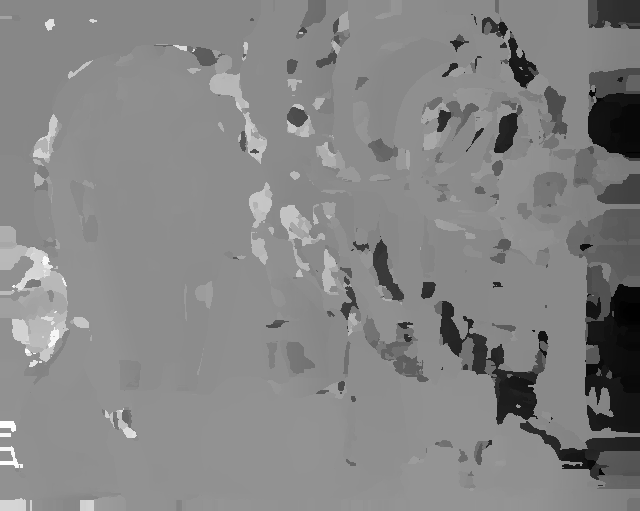
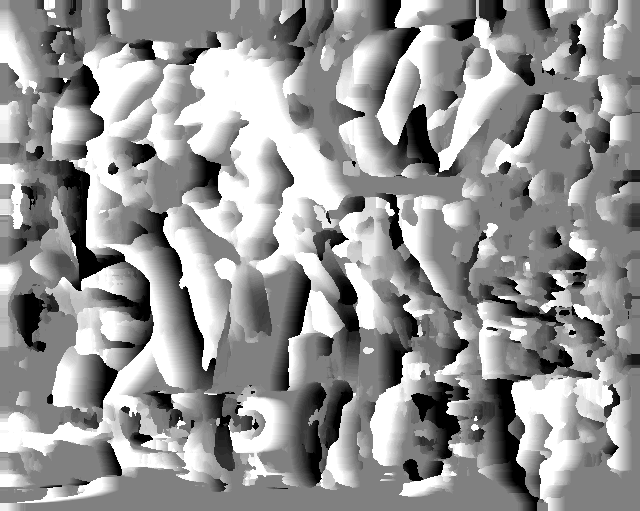
Add disparity range and cost function

diff --git a/ps2_python/disparity_ssd.py b/ps2_python/disparity_ssd.py
@@ -30,7 +30,7 @@ def sumsqdiff2(input_image, template, valid_mask=None):
     return ssd
 
 
-def disparity_ssd(L, R, template_size=3):
+def disparity_ssd(L, R, block_size=3, disparity_range=30, lambda_factor=0.1):
     """Compute disparity map D(y, x) such that: L(y, x) = R(y, x + D(y, x))
 
     Params:
@@ -40,22 +40,33 @@ def disparity_ssd(L, R, template_size=3):
     Returns: Disparity map, same size as L, R
     """
 
-    im_rows = L.shape[0]; im_cols = L.shape[1]
-    tpl_rows = tpl_cols = template_size
+    im_rows, im_cols = L.shape
+    tpl_rows = tpl_cols = block_size
     D_L = np.zeros(L.shape,
                      dtype=np.float32)
-    for r in range(tpl_rows/2, im_rows-tpl_rows/2):
-        for c in range(tpl_cols/2, im_cols-tpl_cols/2):
-            tpl = L[r-tpl_rows/2:r+tpl_rows/2+1, c-tpl_cols/2:c+tpl_cols/2+1].astype(np.float32)
-            R_strip = R[r-tpl_rows/2:r+tpl_rows/2+1, :].astype(np.float32)
-            #  res = my_ssd(R_strip, tpl)  # slow
-            #  res = sumsqdiff2(R_strip, tpl) # faster
-            res = cv2.matchTemplate(R_strip, tpl, method=cv2.TM_SQDIFF) # fastest
-            _,_,min_loc,_ = cv2.minMaxLoc(res)
-#TODO cost function cost = res + lambda * disparity (punishes far away matches)
-            D_L[r, c] = min_loc[0] + tpl_cols / 2 - c
-    D_L = D_L[tpl_rows/2:im_rows-tpl_rows/2, tpl_cols/2:im_cols-tpl_cols/2]
-    D_L = cv2.copyMakeBorder(D_L, tpl_rows/2, tpl_rows/2, tpl_cols/2, tpl_cols/2, borderType=cv2.BORDER_REPLICATE)
+    for r in range(tpl_rows/2, im_rows-tpl_rows/2+1):
+        tr_min, tr_max = max(r-tpl_rows/2, 0), min(r+tpl_rows/2+1, im_rows)
+        for c in range(tpl_cols/2, im_cols-tpl_cols/2+1):
+            # get template
+            tc_min = max(c-tpl_cols/2, 0)
+            tc_max = min(c+tpl_cols/2+1, im_cols)
+            tpl = L[tr_min:tr_max, tc_min:tc_max].astype(np.float32)
+            # get R strip in a window with width=disparity_range
+            rc_min = max(c-disparity_range/2, 0)
+            rc_max = min(c+disparity_range/2+1, im_cols)
+            R_strip = R[tr_min:tr_max, rc_min:rc_max].astype(np.float32)
+            #  error = my_ssd(R_strip, tpl)  # slow
+            #  error = sumsqdiff2(R_strip, tpl) # faster
+            error = cv2.matchTemplate(R_strip, tpl, method=cv2.TM_SQDIFF) # fastest
+            c_tf = max(c-rc_min-tpl_cols/2, 0)
+            dist = np.arange(error.shape[1]) - c_tf
+            cost = error + np.abs(dist) * lambda_factor
+            _,_,min_loc,_ = cv2.minMaxLoc(cost)
+            D_L[r, c] = dist[min_loc[0]]
+
+    # replicate
+    D_L = cv2.copyMakeBorder(D_L[tpl_rows/2:im_rows-tpl_rows/2,
+                                 tpl_cols/2:im_cols-tpl_cols/2],
+                             tpl_rows/2, tpl_rows/2, tpl_cols/2,
+                             tpl_cols/2, borderType=cv2.BORDER_REPLICATE)
     return D_L
-
-

diff --git a/ps2_python/ps2.py b/ps2_python/ps2.py
@@ -12,8 +12,8 @@ def ps2_1():
     L = cv2.imread('input/pair0-L.png', cv2.IMREAD_GRAYSCALE) * (1.0 / 255.0)
     R = cv2.imread('input/pair0-R.png', cv2.IMREAD_GRAYSCALE) * (1.0 / 255.0)
     # Compute disparity (using method disparity_ssd defined in disparity_ssd.py)
-    D_L = disparity_ssd(L, R, 15)
-    D_R = disparity_ssd(R, L, 15)
+    D_L = disparity_ssd(L, R, block_size=9, disparity_range=30)
+    D_R = disparity_ssd(R, L, block_size=9, disparity_range=30)
     # shift and scale disparity maps
     D_L = cv2.normalize(D_L, D_L, alpha=0, beta=255, norm_type=cv2.NORM_MINMAX,
                         dtype=cv2.CV_8U)
@@ -29,16 +29,16 @@ def ps2_2():
     L = cv2.imread('input/pair1-L.png', cv2.IMREAD_GRAYSCALE) * (1.0 / 255.0)
     R = cv2.imread('input/pair1-R.png', cv2.IMREAD_GRAYSCALE) * (1.0 / 255.0)
     # compute disparity maps
-    D_L = disparity_ssd(L, R, 15)
-    D_R = disparity_ssd(R, L, 15)
+    D_L = disparity_ssd(L, R, block_size=15, disparity_range=100, lambda_factor=0.1)
+    #  D_R = disparity_ssd(R, L, block_size=15, disparity_range=100, lambda_factor=0.1)
     # shift and scale disparity maps
     D_L = cv2.normalize(D_L, D_L, alpha=0, beta=255, norm_type=cv2.NORM_MINMAX,
                         dtype=cv2.CV_8U)
-    D_R = cv2.normalize(D_R, D_R, alpha=0, beta=255, norm_type=cv2.NORM_MINMAX,
-                        dtype=cv2.CV_8U)
+    #  D_R = cv2.normalize(D_R, D_R, alpha=0, beta=255, norm_type=cv2.NORM_MINMAX,
+                        #  dtype=cv2.CV_8U)
     # save disparity maps
     cv2.imwrite('output/ps2-2-a-1.png', D_L)
-    cv2.imwrite('output/ps2-2-a-2.png', D_R)
+    #  cv2.imwrite('output/ps2-2-a-2.png', D_R)
 '''
 The disparity maps produces using ssd differ a lot to the ground truth maps in
 valua, while at the same time having smaller size due to the application of the
